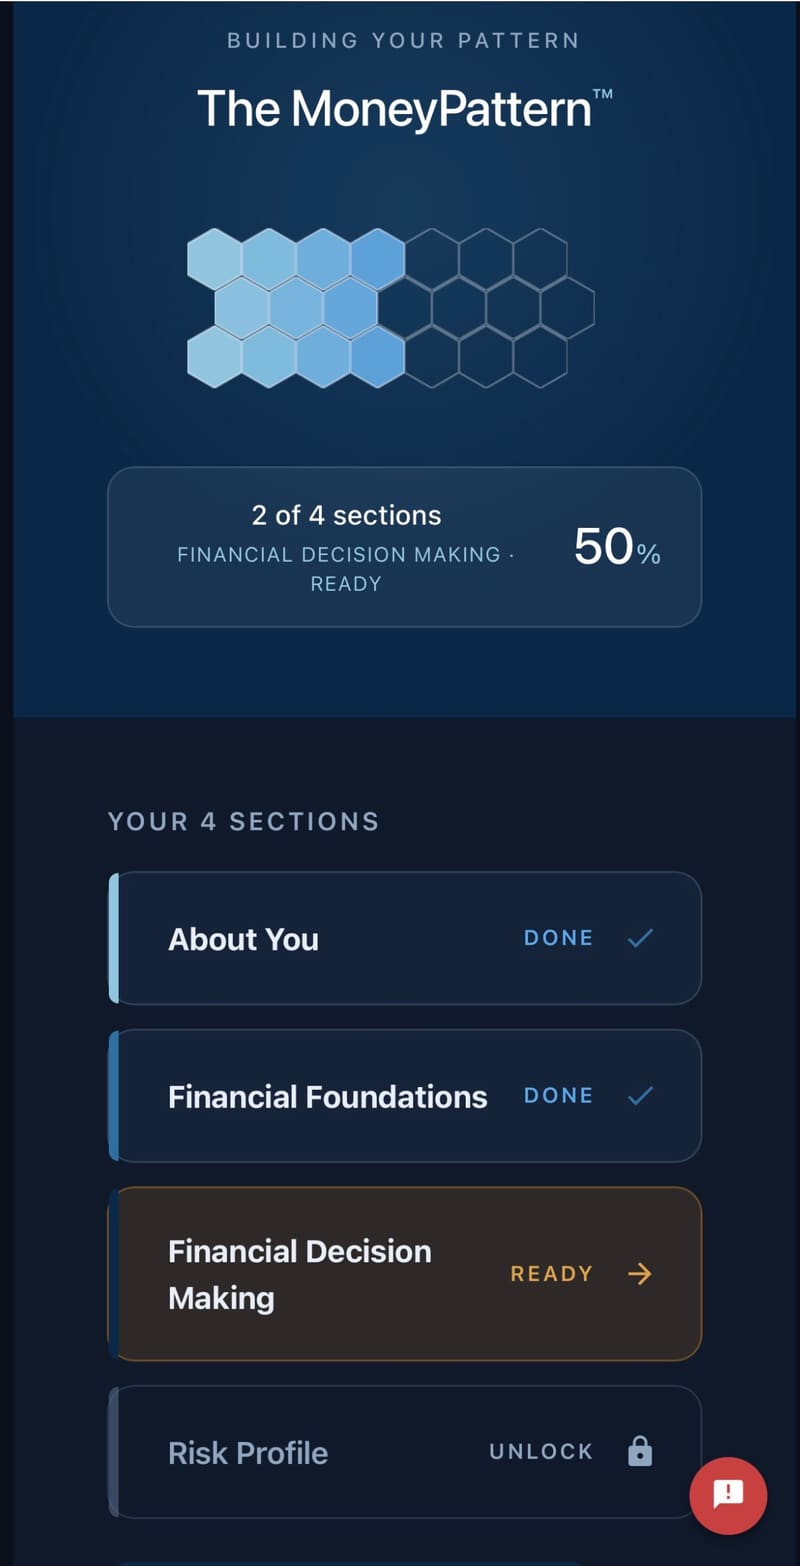
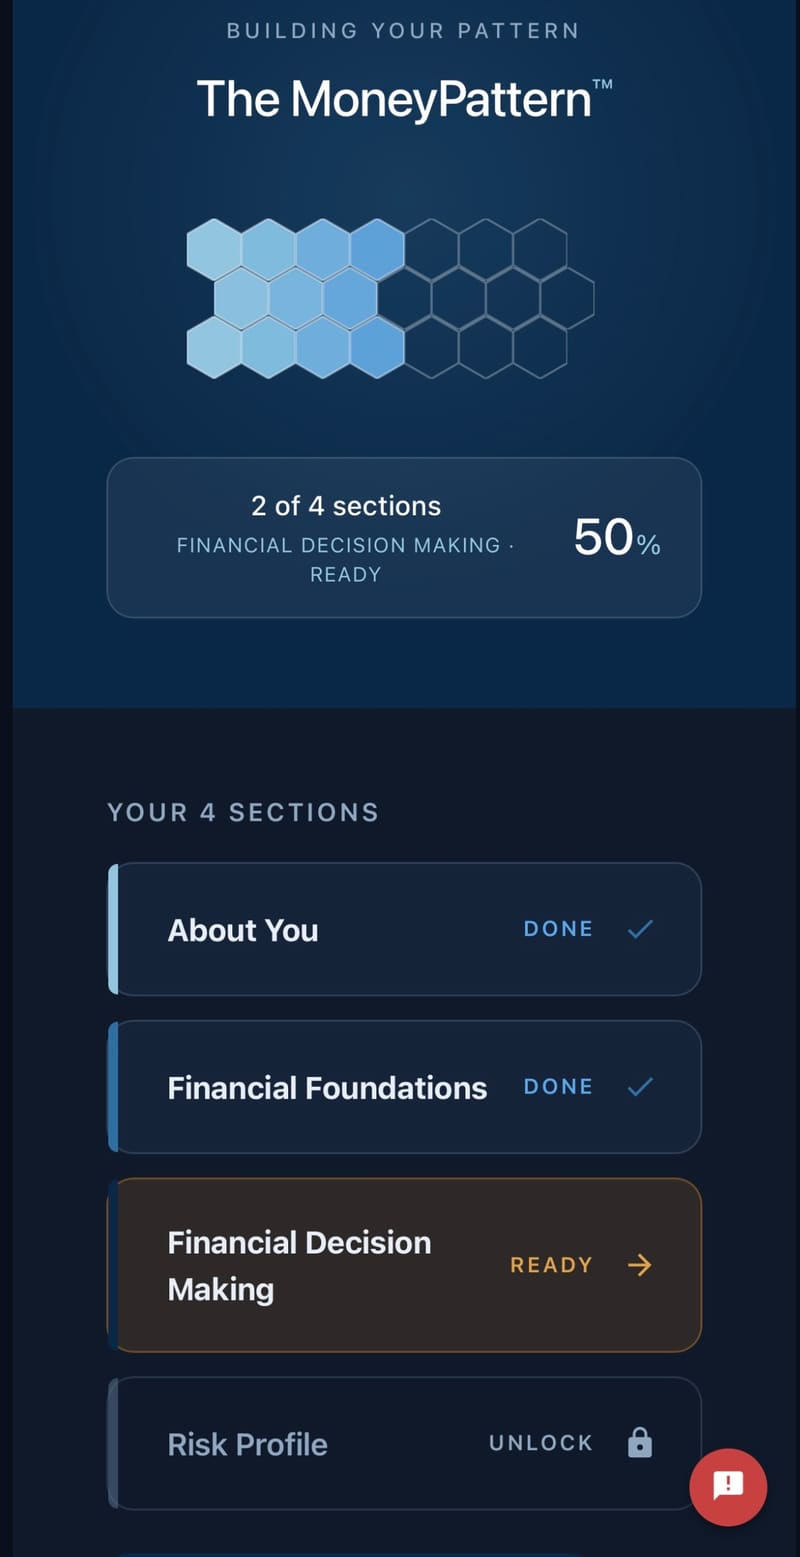
Use cropped MoneyPattern screenshot (remove stray top line)
Replace the left MoneyQuiz phone screenshot with a top-cropped version
that removes a stray white line, regenerate its avif/webp/jpg, and update
the phone aspect ratio to 800/1557 to match.

diff --git a/components/MoneyQuiz.jsx b/components/MoneyQuiz.jsx
@@ -27,7 +27,7 @@ export default function MoneyQuiz() {
   return (
     <div className="mm-mq">
       <div className="mm-mq-stage-row">
-        <PhoneFrame tone="dark" ratio="800 / 1566" label="MoneyMind app building a client's MoneyPattern">
+        <PhoneFrame tone="dark" ratio="800 / 1557" label="MoneyMind app building a client's MoneyPattern">
           <PhoneShot
             src="/assets/opt/product/quiz-moneypattern"
             alt="MoneyMind app building a client's MoneyPattern, showing progress through the four sections"